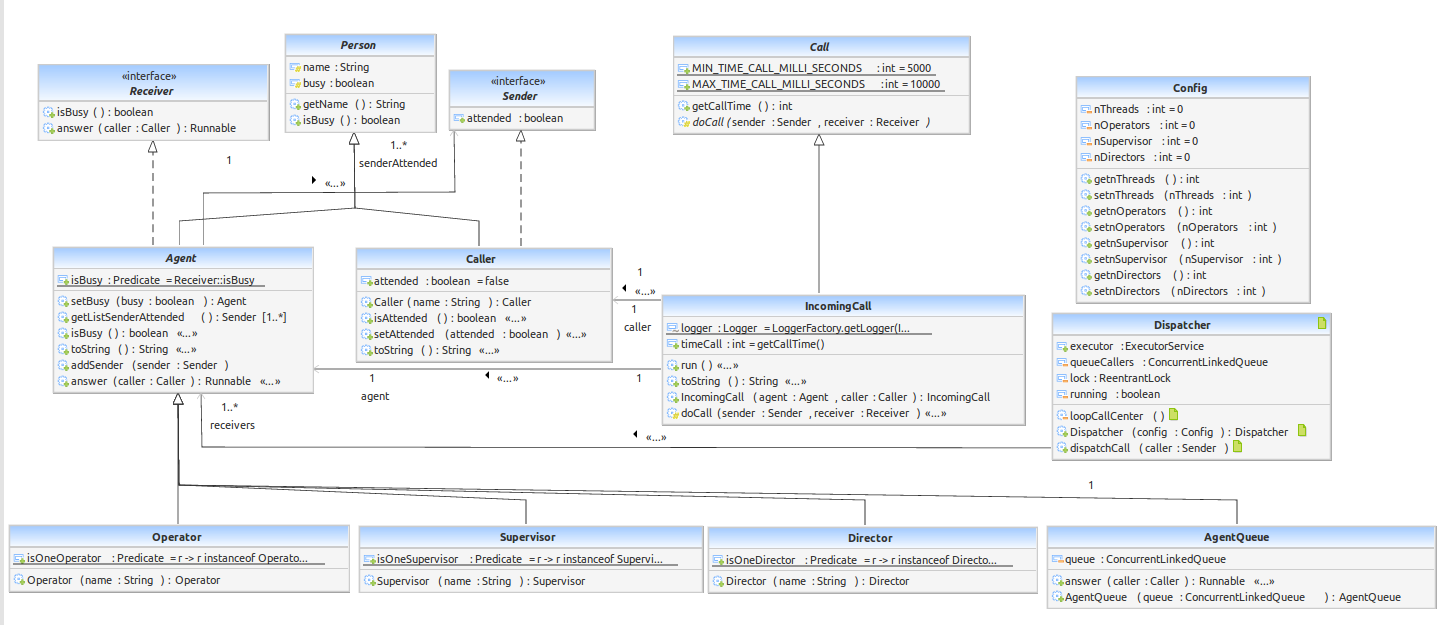
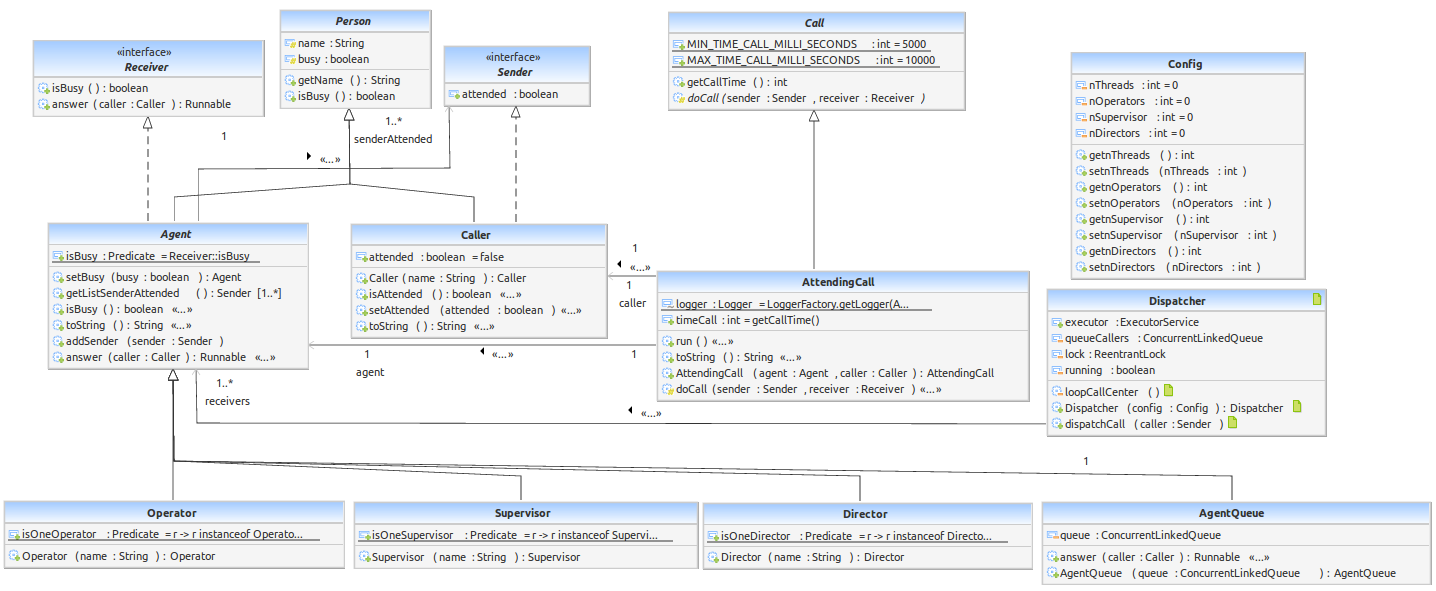
Rename class IncomingCall to AttendingCall

Changed region(s): [[0.0, 0.0, 0.9499, 0.7614], [0.0, 0.7614, 1.0, 1.0], [0.4596, 0.0, 0.6741, 0.2437]]

diff --git a/src/main/java/callcenter/com/co/app/abstracts/Agent.java b/src/main/java/callcenter/com/co/app/abstracts/Agent.java
@@ -4,8 +4,7 @@ import java.util.ArrayList;
 import java.util.List;
 import java.util.function.Predicate;
 
-import callcenter.com.co.app.dispatcher.Dispatcher;
-import callcenter.com.co.app.entities.calls.IncomingCall;
+import callcenter.com.co.app.entities.calls.AttendingCall;
 import callcenter.com.co.app.entities.senders.Caller;
 import callcenter.com.co.app.interfaces.Receiver;
 import callcenter.com.co.app.interfaces.Sender;
@@ -36,7 +35,7 @@ public abstract class Agent extends Person implements Receiver {
 	
 	@Override
 	public Runnable answer(Caller caller) {
-		Call call = new IncomingCall(this, caller);
+		Call call = new AttendingCall(this, caller);
 		this.addSender(caller);
 		return call;
 	}

diff --git a/src/main/java/callcenter/com/co/app/entities/calls/AttendingCall.java b/src/main/java/callcenter/com/co/app/entities/calls/AttendingCall.java
@@ -10,8 +10,8 @@ import callcenter.com.co.app.entities.senders.Caller;
 import callcenter.com.co.app.interfaces.Receiver;
 import callcenter.com.co.app.interfaces.Sender;
 
-public class IncomingCall extends Call {
-	final static Logger logger = LoggerFactory.getLogger(IncomingCall.class);
+public class AttendingCall extends Call {
+	final static Logger logger = LoggerFactory.getLogger(AttendingCall.class);
 	
 
 	public Caller caller;
@@ -19,7 +19,7 @@ public class IncomingCall extends Call {
 	
 	public int timeCall = getCallTime();
 
-	public IncomingCall(Agent agent, Caller caller) {
+	public AttendingCall(Agent agent, Caller caller) {
 		this.agent = agent;
 		this.caller = caller;
 	}

diff --git a/src/test/java/callcenter/com/co/app/DispatchCallTest.java b/src/test/java/callcenter/com/co/app/DispatchCallTest.java
@@ -69,7 +69,7 @@ public class DispatchCallTest {
 	
 	
 	/**
-	 * Send 10 threads a same time to dispatchCall method. The resuld should be:
+	 * Send 10 threads a same time to dispatchCall method. The result should be:
 	 * 1. 10 threads should be 10 calls
 	 * 2. The maximum call duration is Call.MAX_TIME_CALL_MILLI_SECONDS (10 seconds)
 	 *    seconds and this should be greater than total current time dispatcher
